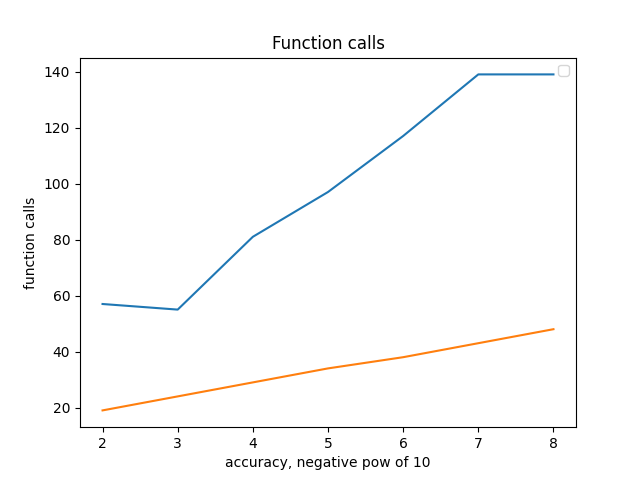
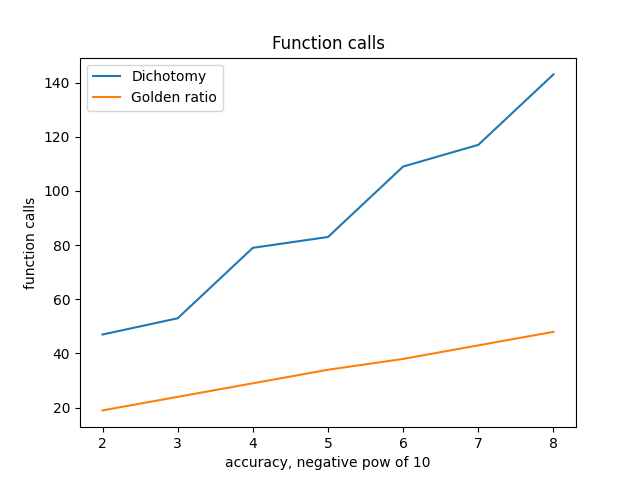
Add segment length comparison

diff --git a/lab-1/src/main/kotlin/ru/itmo/optmethods/methods/onedim/comparison/OneDimMethodsComparison.kt b/lab-1/src/main/kotlin/ru/itmo/optmethods/methods/onedim/comparison/OneDimMethodsComparison.kt
@@ -7,10 +7,18 @@ import ru.itmo.optmethods.methods.onedim.DichotomyMethod
 import ru.itmo.optmethods.methods.onedim.GoldenRatioMethod
 import ru.itmo.optmethods.plot.plot
 import ru.itmo.optmethods.plot.points
+import kotlin.math.abs
 import kotlin.math.log10
 import kotlin.math.pow
 
-private data class Segment(val start: Rational, val end: Rational)
+private data class Segment(val start: Rational, val end: Rational) {
+    val size = abs(end - start)
+}
+
+private data class ComparisonResult(
+    val dichotomyResults: List<MinimizationResult>,
+    val goldenRatioResults: List<MinimizationResult>
+)
 
 object OneDimMethodsComparison {
     // Desmos: x^{4\ }+3x^{3\ }-2x
@@ -21,9 +29,11 @@ object OneDimMethodsComparison {
         val methodCount = 2
 
         val results = Array(methodCount) { mutableListOf<MinimizationResult>() }
-        val segments = Array(methodCount) { mutableListOf<Segment>() }
+        val segmentsByAccuracy = Array(accuracies.size) {
+            Array(methodCount) { mutableListOf<Segment>() }
+        }
 
-        accuracies.forEach { eps ->
+        accuracies.forEachIndexed { accuracyIndex, eps ->
             val methods = listOf(
                 DichotomyMethod(eps = eps),
                 GoldenRatioMethod(eps = eps)
@@ -31,6 +41,7 @@ object OneDimMethodsComparison {
 
             require(methodCount == methods.size)
 
+            val segments = Array(methodCount) { mutableListOf<Segment>() }
             methods.forEachIndexed { i, method ->
                 method.setOnIterationEndListener { rangeStart, rangeEnd ->
                     segments[i].add(Segment(rangeStart, rangeEnd))
@@ -45,19 +56,24 @@ object OneDimMethodsComparison {
                         function = testFunction,
                     )
                 )
+                segmentsByAccuracy[accuracyIndex] = segments
             }
         }
 
         buildPlots(
             accuracies = accuracies.map { -log10(it) },
+            dichotomySegments = segmentsByAccuracy[accuracies.lastIndex][0],
             dichotomyResults = results[0],
+            goldenRatioSegments = segmentsByAccuracy[accuracies.lastIndex][1],
             goldenRatioResults = results[1]
         )
     }
 
     private fun buildPlots(
         accuracies: List<Double>,
+        dichotomySegments: List<Segment>,
         dichotomyResults: List<MinimizationResult>,
+        goldenRatioSegments: List<Segment>,
         goldenRatioResults: List<MinimizationResult>
     ) {
         plot(saveFigPath = "results/onedim/iterations.png") {
@@ -83,13 +99,35 @@ object OneDimMethodsComparison {
             ylabel("function calls")
 
             points {
-                add(accuracies, dichotomyResults.map { it.functionsCall })
                 label("Dichotomy")
+                add(accuracies, dichotomyResults.map { it.functionsCall })
             }
 
             points {
-                add(accuracies, goldenRatioResults.map { it.functionsCall })
                 label("Golden ratio")
+                add(accuracies, goldenRatioResults.map { it.functionsCall })
+            }
+        }
+
+        plot(saveFigPath = "results/onedim/segments.png", show = true) {
+            title("Segment lengths")
+            xlabel("iterations")
+            ylabel("length of segment")
+
+            points {
+                label("Dichotomy")
+                add(
+                    dichotomySegments.indices.toList(),
+                    dichotomySegments.map { segment -> segment.size }
+                )
+            }
+
+            points {
+                label("Golden ratio")
+                add(
+                    goldenRatioSegments.indices.toList(),
+                    goldenRatioSegments.map { segment -> segment.size }
+                )
             }
         }
     }
